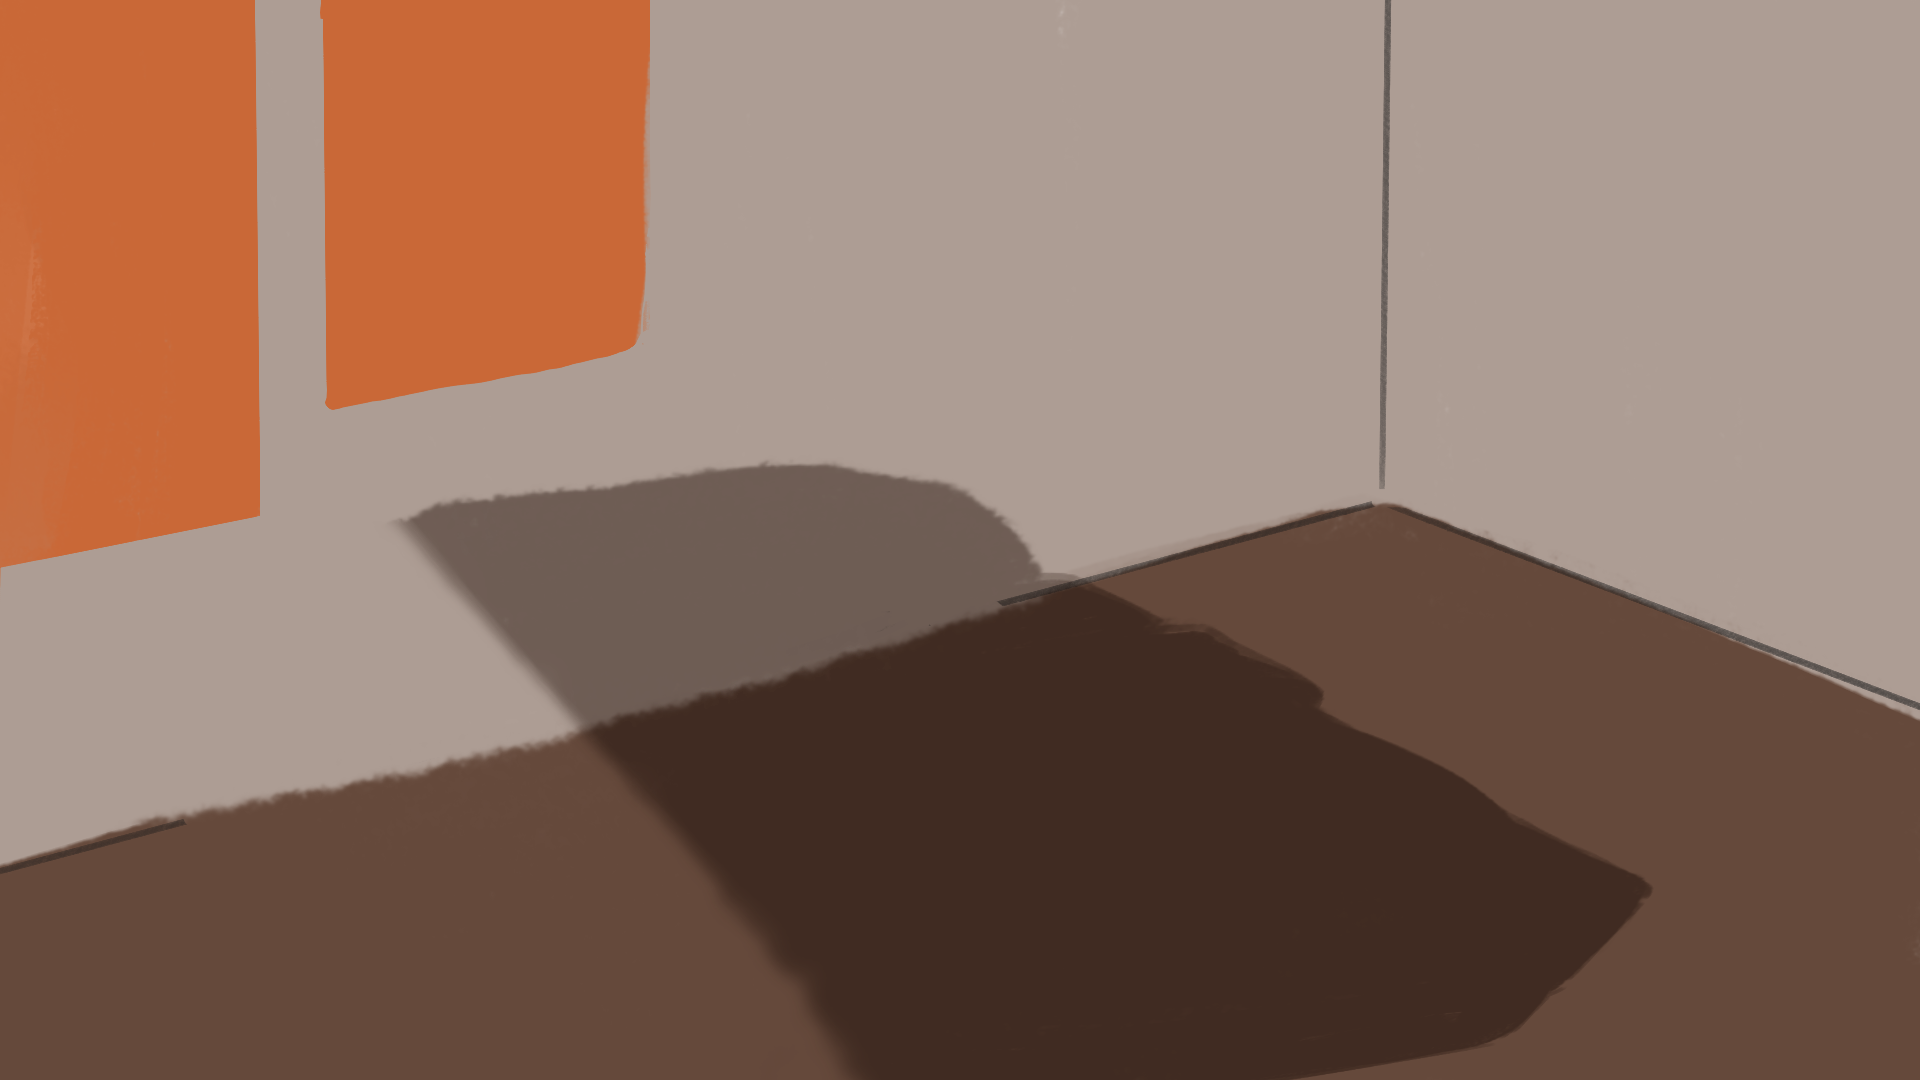
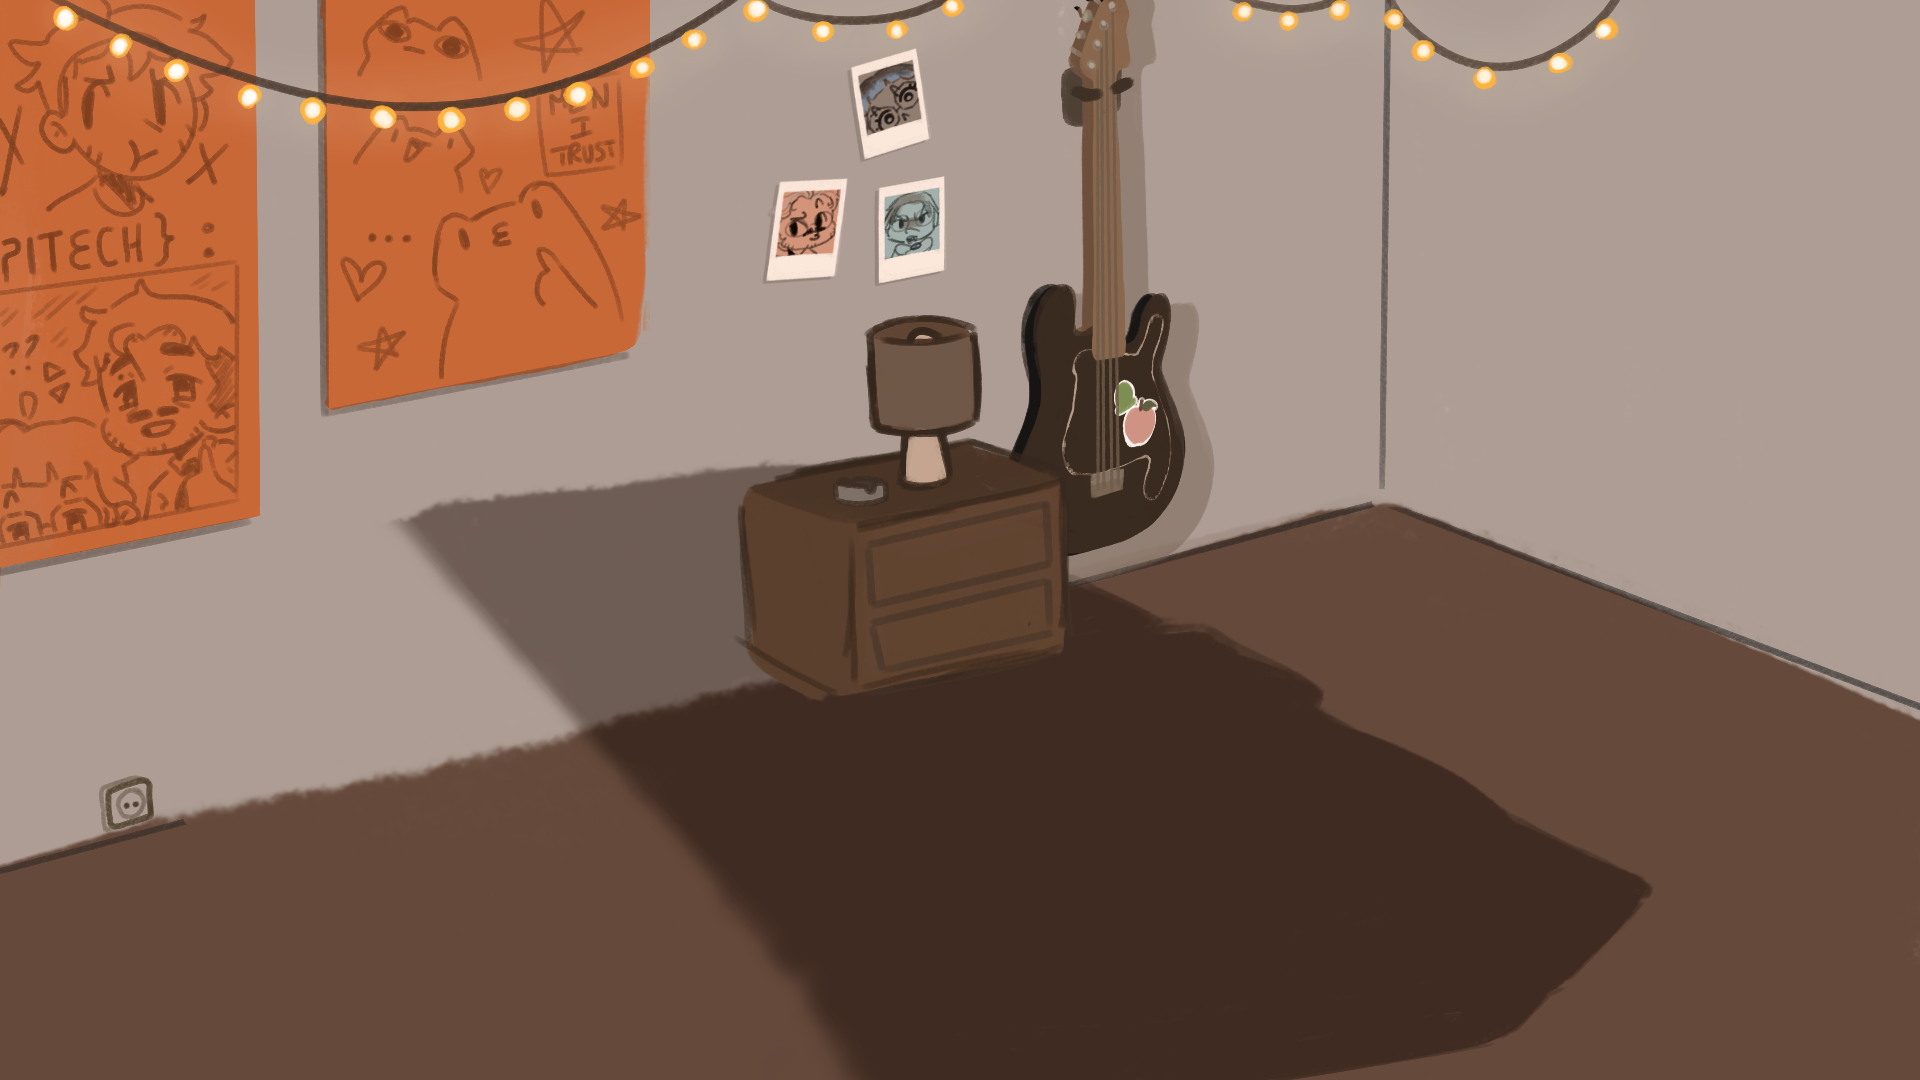
Improved backgrounds

Changed region(s): [[0.0, 0.0, 0.8438, 0.6417], [0.2188, 0.3361, 0.3125, 0.3667], [0.0312, 0.7028, 0.0938, 0.7639]]

diff --git a/src/App.jsx b/src/App.jsx
@@ -5,6 +5,7 @@ import Profil from "./pages/Profil";
 import CreditsPage from "./pages/Credits";
 import { useState, useEffect } from "react";
 import { isFilterEnabled, setFilterEnabled } from "./utils/filterStorage";
+import Click from "./assets/Musiques/lightClick.mp3";
 
 function App() {
   const [filterEnabled, setFilter] = useState(true);
